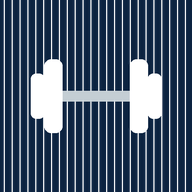
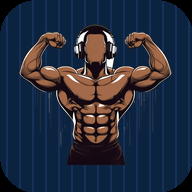
Add files via upload

diff --git a/index.html b/index.html
@@ -28,6 +28,7 @@ html,body{overscroll-behavior-y:none;background:var(--bg);color:var(--text);font
 
 /* ── HEADER ─────────────────────────────────────────────────────── */
 .hdr{padding:max(env(safe-area-inset-top,0px),20px) 16px 14px;display:flex;align-items:center;justify-content:space-between;position:sticky;top:0;background:repeating-linear-gradient(90deg,rgba(5,8,16,.98) 0 7px,rgba(10,19,34,.98) 7px 8px);backdrop-filter:blur(24px);z-index:100;border-bottom:2px solid var(--accent2)}
+.logo-icon{width:40px;height:auto;display:block}
 .logo{display:flex;align-items:center;gap:8px;line-height:1}
 .logo-icon{flex-shrink:0}
 .logo-iron{font-family:'Oswald',sans-serif;font-size:16px;font-weight:700;letter-spacing:3px;color:var(--accent);display:block;line-height:1}
@@ -145,6 +146,8 @@ html,body{overscroll-behavior-y:none;background:var(--bg);color:var(--text);font
 .illus-placeholder{display:flex;flex-direction:column;align-items:center;justify-content:center;gap:8px;width:100%;height:100%;background:#0a0a14}
 .illus-placeholder .ph-icon{font-size:32px;opacity:.25}
 .illus-placeholder .ph-text{font-size:10px;color:var(--muted);text-align:center;line-height:1.5;max-width:160px}
+.wk-done-chip{font-size:10px;font-weight:700;letter-spacing:.5px;margin-left:5px;color:var(--accent)}
+.wk-done-chip.cb{color:#FAC775}
 .wk-pat-badge{font-size:9px;letter-spacing:.8px;color:var(--muted);border:0.5px solid var(--border);border-radius:100px;padding:3px 8px;margin-left:5px;text-transform:uppercase}
 .muscle-tag{position:absolute;bottom:8px;left:8px;padding:3px 8px;border-radius:6px;font-size:9px;font-weight:700;letter-spacing:.5px;text-transform:uppercase;backdrop-filter:blur(6px)}
 .wk-foot{padding:9px 14px;border-top:1px solid var(--border);display:flex;gap:10px;align-items:center}
@@ -574,13 +577,7 @@ button,.mg-chip,.ex-card,.dur-card,.sp-btn,.timer-btn,.hist-item,.set-log-input,
   <!-- HEADER -->
   <div class="hdr">
     <div class="logo">
-      <svg class="logo-icon" width="34" height="34" viewBox="0 0 34 34" fill="none" aria-hidden="true">
-      <circle cx="17" cy="11" r="7.5" fill="#FFFFFF"/>
-      <path d="M12 6.5 A9 9 0 0 1 12 15.5 M22 6.5 A9 9 0 0 0 22 15.5" stroke="#D85A30" stroke-width="1.4" fill="none" stroke-linecap="round" stroke-dasharray="1.6 2"/>
-      <rect x="6" y="23" width="22" height="4" rx="2" fill="var(--accent2)"/>
-      <rect x="3" y="20.5" width="4" height="9" rx="1.6" fill="#FFFFFF"/>
-      <rect x="27" y="20.5" width="4" height="9" rx="1.6" fill="#FFFFFF"/>
-    </svg>
[1 lines of base64/hex data omitted]
       <div style="line-height:1"><div class="logo-iron">IRON</div><div class="logo-audio">AUDIO</div></div>
     </div>
     <button class="hdr-icon-btn" onclick="openHistory()" title="Workout History">📋</button>
@@ -688,7 +685,7 @@ button,.mg-chip,.ex-card,.dur-card,.sp-btn,.timer-btn,.hist-item,.set-log-input,
     </div>
 
     <div class="gen-wrap">
-      <button class="gen-btn" onclick="generate()">⚾ PLAY BALL</button>
+      <button class="gen-btn" onclick="generate()">💪 PUMP IT UP</button>
     </div>
   </div>
 
@@ -728,7 +725,7 @@ button,.mg-chip,.ex-card,.dur-card,.sp-btn,.timer-btn,.hist-item,.set-log-input,
     <div id="quoteCard" style="padding:8px 14px 0;"></div>
     <div class="wk-list" id="wkList"></div>
     <div style="padding:0 14px 4px">
-      <button class="end-workout-btn" onclick="endWorkout()">⚾ FINAL OUT</button>
+      <button class="end-workout-btn" onclick="endWorkout()">🤖 I'LL BE BACK</button>
     </div>
     <div class="pl-sec" id="plSection">
       <div style="display:flex;align-items:center;justify-content:space-between;margin-bottom:10px">
@@ -747,7 +744,7 @@ button,.mg-chip,.ex-card,.dur-card,.sp-btn,.timer-btn,.hist-item,.set-log-input,
     </div>
   </div>
 
-  <div class="version-footer">IRON AUDIO v17.1.0 · YANKEES EDITION · ANDROID</div>
+  <div class="version-footer">IRON AUDIO v18.0.0 · GOLDEN ERA EDITION · ANDROID</div>
 
 </div>
 
@@ -2976,6 +2973,7 @@ function renderExerciseCard(ex, index) {
           '<div class="wk-desc">' + escHtml(ex.desc) + '</div>' +
           '<span class="wk-muscle-badge" style="background:' + mc.bg + ';color:' + mc.color + '">' + ex.muscle + '</span>' +
           (ex.pat && PAT_LABELS[ex.pat] ? '<span class="wk-pat-badge">' + escHtml(PAT_LABELS[ex.pat]) + '</span>' : '') +
+          '<span class="wk-done-chip" id="doneChip-' + i + '"></span>' +
         '</div>' +
         '<div class="wk-sets-box">' +
           '<div class="wk-sets">' + ex.sets + '</div>' +
@@ -3130,7 +3128,11 @@ async function generate() {
     }
     exercises = exercises.concat(group);
   }
-  shuffle(exercises);
+  // V18: Foundation First (Arnold §2) — heavy compounds lead the session,
+  // isolation and pump work follow. Stable sort keeps muscle grouping intact.
+  const COMPOUND_PATS = ['hpress','ipress','vpull','hrow','hinge','knee','hip','press','full'];
+  const isComp = e => COMPOUND_PATS.indexOf(e.pat) !== -1 ? 0 : 1;
+  exercises.sort((a, b) => isComp(a) - isComp(b));
 
   // Apply superset pairing — V17: Arnold agonist/antagonist rules. Pair
   // opposing muscle groups back-to-back (chest↔back, biceps↔triceps); within
@@ -3832,7 +3834,7 @@ function endWorkout() {
     nextEl.style.display = 'none';
   }
 
-  // ── Final Out AUTO-SAVES here (no confirmation gate) ─────────────────
+  // ── I'll Be Back AUTO-SAVES here (no confirmation gate) ─────────────
   // Workout is already in history (saved at generation); finalize the totals now.
   try {
     var hist = JSON.parse(localStorage.getItem('iron_history') || '[]');
@@ -3840,6 +3842,7 @@ function endWorkout() {
       hist[0].totalVolume = totalVolume;
       hist[0].durationMin = minutes;
       hist[0].setLogs = collectSetLogs(); // finalize logs (generation-time snapshot is empty)
+      hist[0].performedOrder = computePerformedOrder(); // V18: the order you actually trained
       localStorage.setItem('iron_history', JSON.stringify(hist));
     }
   } catch(e){}
@@ -3893,7 +3896,7 @@ function closeEwModal() {
 }
 
 function confirmEndWorkout() {
-  // Save already happened when Final Out was pressed (see endWorkout).
+  // Save already happened when I'll Be Back was pressed (see endWorkout).
   // This is now just the recap dismiss → back to home.
   closeEwModal();
   showCfg();
@@ -4267,6 +4270,7 @@ function renderHistoryList() {
       </div>
       <div id="hist-detail-${i}" style="display:none;margin-top:10px;padding-top:10px;border-top:1px solid var(--border)">
         ${entry.hr && !entry.hr.pending ? renderHrHistoryDetail(entry.hr) : ''}
+        ${entry.performedOrder && entry.performedOrder.length ? `<div style="font-size:10px;color:var(--accent2);letter-spacing:.5px;margin-bottom:8px">DONE IN ORDER: ${entry.performedOrder.map(escHtml).join(' → ')}</div>` : ''}
         ${(entry.exercises||[]).map(ex => {
           const logs = (entry.setLogs||{})[ex.name];
           return `<div style="margin-bottom:8px">
@@ -4521,8 +4525,8 @@ function updateElapsedDisplay() {
 function updateQuarterBanner(secs) {
   var qtrSecs = (dur || 30) * 60 / 4;
   var q = secs <= 0 ? 0 : Math.min(4, Math.ceil(secs / qtrSecs));
-  var labels = ['PRE-GAME', 'EARLY INNINGS', 'MIDDLE INNINGS', 'LATE INNINGS', 'BOTTOM OF THE 9TH'];
-  var label = secs > (dur || 30) * 60 ? 'EXTRA INNINGS' : (labels[q] || 'BOTTOM OF THE 9TH');
+  var labels = ['WARM-UP', 'STAY HUNGRY', 'THE PUMP', 'SHOCK THE MUSCLE', 'CONQUER'];
+  var label = secs > (dur || 30) * 60 ? 'ONE MORE REP' : (labels[q] || 'CONQUER');
   var lEl = document.getElementById('qtrLabel');
   if (lEl) lEl.textContent = label;
   [1,2,3,4].forEach(function(i) {
@@ -4676,7 +4680,13 @@ function commitExerciseName(index, val) {
 }
 
 // ── SWAP PICKER ────────────────────────────────────────────────────────
-let _swapIndex = 0, _swapEquip = 'all';
+let _swapIndex = 0, _swapEquip = 'all', _swapPatLock = true;
+
+// Pattern class of an exercise within its DB group ('' when untagged).
+function swapPatOf(name, muscleGroup) {
+  var t = (EX_PATTERNS[muscleGroup] || {})[name] || '';
+  return t === 'other' ? '' : t;
+}
 const SWAP_EQUIP_CHIPS = ['all','barbell','dumbbell','cable','machine','bodyweight'];
 
 function detectEquip(e) {
@@ -4696,10 +4706,19 @@ function swapCandidates() {
   const currentNames = new Set(workout.map(function(e){ return e.name; }));
   let pool = (DB[muscleGroup] || []).filter(function(e){ return e.name !== ex.name && !currentNames.has(e.name); });
   if (equipmentMode === 'bodyweight') pool = pool.filter(function(e){ return e.bw; });
+  // V17.1: preserve the logic the workout was built on — a vertical pull only
+  // swaps for another vertical pull (toggleable via the pattern chip).
+  var pat = ex.pat || swapPatOf(ex.name, muscleGroup);
+  if (_swapPatLock && pat) pool = pool.filter(function(e){ return swapPatOf(e.name, muscleGroup) === pat; });
+  // Exact fine-muscle matches (e.g. Inner Chest → Inner Chest) rank first.
+  pool.sort(function(a, b){
+    return (b.muscle === ex.muscle ? 1 : 0) - (a.muscle === ex.muscle ? 1 : 0);
+  });
   return pool;
 }
 
 function applyDiffToPick(picked, ex, muscleGroup) {
+  var _pat = swapPatOf(picked.name, muscleGroup);
   const diffMap = { beginner:{setsM:.75,restM:1.3}, intermediate:{setsM:1,restM:1}, advanced:{setsM:1.25,restM:.75} };
   const dm = diffMap[difficulty] || diffMap.intermediate;
   const s = Math.max(2, Math.round(parseFloat(picked.sets) * dm.setsM));
@@ -4707,7 +4726,7 @@ function applyDiffToPick(picked, ex, muscleGroup) {
   const newRest = Math.round(restSecs * dm.restM);
   const restStr = newRest >= 60 ? Math.round(newRest/10)*10+'s' : newRest+'s';
   const swapRest = (workoutMode === 'superset' && ex.ssConnector) ? '15s' : restStr;
-  return { ...picked, sets: String(s), rest: swapRest, muscleGroup, ssGroup: ex.ssGroup, ssConnector: ex.ssConnector };
+  return { ...picked, sets: String(s), rest: swapRest, muscleGroup, pat: _pat, ssGroup: ex.ssGroup, ssConnector: ex.ssConnector };
 }
 
 function swapExercise(index) {
@@ -4715,6 +4734,7 @@ function swapExercise(index) {
   if (!workout || !workout[index]) return;
   _swapIndex = index;
   _swapEquip = 'all';
+  _swapPatLock = true;
   const ex = workout[index];
   const muscleGroup = ex.muscleGroup || (ex.muscle ? ex.muscle.toLowerCase() : 'chest');
   document.getElementById('swapMuscle').textContent = muscleGroup.toUpperCase();
@@ -4733,11 +4753,22 @@ function closeSwapPicker() {
 
 function setSwapEquip(eq) { _swapEquip = eq; renderSwapChips(); renderSwapList(); }
 
+function toggleSwapPatLock() { _swapPatLock = !_swapPatLock; renderSwapChips(); renderSwapList(); }
+
 function renderSwapChips() {
   const pool = swapCandidates();
   const present = new Set(pool.map(detectEquip));
   const el = document.getElementById('swapChips');
-  el.innerHTML = SWAP_EQUIP_CHIPS
+  const workout = window._currentWorkout || [];
+  const ex = workout[_swapIndex] || {};
+  const mg = ex.muscleGroup || (ex.muscle ? ex.muscle.toLowerCase() : 'chest');
+  const pat = ex.pat || swapPatOf(ex.name, mg);
+  const patChip = pat
+    ? '<button class="swap-chip' + (_swapPatLock ? ' on' : '') + '" onclick="toggleSwapPatLock()">' +
+      (_swapPatLock ? '\uD83D\uDD12 ' : '') + escHtml((PAT_LABELS[pat] || pat).toUpperCase()) +
+      (_swapPatLock ? '' : ' \u00b7 SHOWING ALL') + '</button>'
+    : '';
+  el.innerHTML = patChip + SWAP_EQUIP_CHIPS
     .filter(function(c){ return c === 'all' || present.has(c); })
     .map(function(c){
       return '<button class="swap-chip' + (_swapEquip === c ? ' on' : '') + '" data-eq="' + c + '"' +
@@ -4846,6 +4877,51 @@ function prevBestLine(exName) {
 // Sets the correct badge (gold weight-PR, blue rep-PR, or none) on one row.
 // Returns true if the row now carries any PR badge. Single source of truth so
 // live edits and initial render can't disagree.
+// V18: reflect the real done-order on each card. An exercise's position in
+// the sequence = the timestamp of its first logged set. Exercises sitting
+// unlogged ABOVE your furthest logged one get a circle-back reminder.
+function updateDoneChips() {
+  var wo = window._currentWorkout || [];
+  var firstTs = wo.map(function(_, i) {
+    var rows = window._setLogs[i] || [];
+    var t = null;
+    rows.forEach(function(r) { if (r && r.ts && (r.weight || r.reps)) t = (t === null || r.ts < t) ? r.ts : t; });
+    return t;
+  });
+  var ranked = firstTs.map(function(t, i) { return { t: t, i: i }; })
+    .filter(function(x) { return x.t !== null; })
+    .sort(function(a, b) { return a.t - b.t; });
+  var maxDone = ranked.length ? Math.max.apply(null, ranked.map(function(x) { return x.i; })) : -1;
+  wo.forEach(function(_, i) {
+    var el = document.getElementById('doneChip-' + i);
+    if (!el) return;
+    var pos = ranked.findIndex(function(x) { return x.i === i; });
+    if (pos >= 0) {
+      el.textContent = pos < 20 ? String.fromCharCode(0x2460 + pos) : '#' + (pos + 1);
+      el.classList.remove('cb');
+    } else if (i < maxDone) {
+      el.textContent = '⏳ CIRCLE BACK';
+      el.classList.add('cb');
+    } else {
+      el.textContent = '';
+      el.classList.remove('cb');
+    }
+  });
+}
+
+// Exposed for history: exercise names in the order they were actually done.
+function computePerformedOrder() {
+  var wo = window._currentWorkout || [];
+  return wo.map(function(ex, i) {
+    var rows = window._setLogs[i] || [];
+    var t = null;
+    rows.forEach(function(r) { if (r && r.ts && (r.weight || r.reps)) t = (t === null || r.ts < t) ? r.ts : t; });
+    return { name: ex.name, t: t };
+  }).filter(function(x) { return x.t !== null; })
+    .sort(function(a, b) { return a.t - b.t; })
+    .map(function(x) { return x.name; });
+}
+
 function refreshRowBadges(exIndex, setIndex) {
   var ex  = window._currentWorkout && window._currentWorkout[exIndex];
   var row = document.getElementById('setrow-' + exIndex + '-' + setIndex);
@@ -4857,7 +4933,7 @@ function refreshRowBadges(exIndex, setIndex) {
   var rb = row.querySelector('.set-log-reppr');
   if (isWt) {
     if (rb) rb.remove();
-    if (!wb) { var e = document.createElement('span'); e.className = 'set-log-pr'; e.textContent = '⚾ PR'; row.appendChild(e); }
+    if (!wb) { var e = document.createElement('span'); e.className = 'set-log-pr'; e.textContent = '🏆 PR'; row.appendChild(e); }
   } else if (isRep) {
     if (wb) wb.remove();
     if (!rb) { var e2 = document.createElement('span'); e2.className = 'set-log-reppr'; e2.textContent = '🔁 REP'; row.appendChild(e2); }
@@ -4872,6 +4948,10 @@ function logSet(exIndex, setIndex, field, value) {
   if (!window._setLogs[exIndex]) window._setLogs[exIndex] = [];
   if (!window._setLogs[exIndex][setIndex]) window._setLogs[exIndex][setIndex] = {weight:'', reps:''};
   window._setLogs[exIndex][setIndex][field] = value;
+  // V18: first touch on a set stamps it — this is how the app learns the
+  // order you ACTUALLY did things, independent of list order.
+  if (value !== '' && !window._setLogs[exIndex][setIndex].ts)
+    window._setLogs[exIndex][setIndex].ts = Date.now();
 
   // C1: recompute badges live — ADD when a set qualifies, REMOVE on a correction.
   // Note: we do NOT persist here. PRs commit at endWorkout() so a typo (1000→100) can't poison the record.
@@ -4885,6 +4965,7 @@ function logSet(exIndex, setIndex, field, value) {
     });
     if (refreshRowBadges(exIndex, setIndex) && navigator.vibrate) navigator.vibrate([50, 30, 50]);
   }
+  updateDoneChips();
   updateSession(); // persist set logs so reload doesn't lose them
 }
 
@@ -5000,7 +5081,7 @@ function renderSetRow(exIndex, setIndex, log) {
       '<input class="set-log-input" type="number" placeholder="reps" value="' + (log.reps || '') + '"' +
         ' inputmode="numeric" min="0" data-ex="' + exIndex + '" data-s="' + setIndex + '" data-field="reps"' +
         ' oninput="logSet(+this.dataset.ex,+this.dataset.s,this.dataset.field,this.value)">' +
-      (isPR ? '<span class="set-log-pr">⚾ PR</span>' : (isRep ? '<span class="set-log-reppr">🔁 REP</span>' : '')) +
+      (isPR ? '<span class="set-log-pr">🏆 PR</span>' : (isRep ? '<span class="set-log-reppr">🔁 REP</span>' : '')) +
       '<button class="set-log-del" data-ex="' + exIndex + '" data-s="' + setIndex + '"' +
         ' onclick="deleteSetRow(+this.dataset.ex,+this.dataset.s)" title="Remove set" aria-label="Remove set">✕</button>' +
     '</div>';

diff --git a/sw.js b/sw.js
@@ -2,7 +2,7 @@
 // Network-first so a fresh deploy is picked up immediately (version hygiene);
 // cache fallback keeps the app openable offline. Also required so
 // showNotification() works for rest-complete alerts.
-const CACHE = 'iron-audio-v17-1';
+const CACHE = 'iron-audio-v18';
 
 self.addEventListener('install', (e) => {
   e.waitUntil(caches.open(CACHE).then((c) => c.addAll(['./'])).catch(() => {}));
